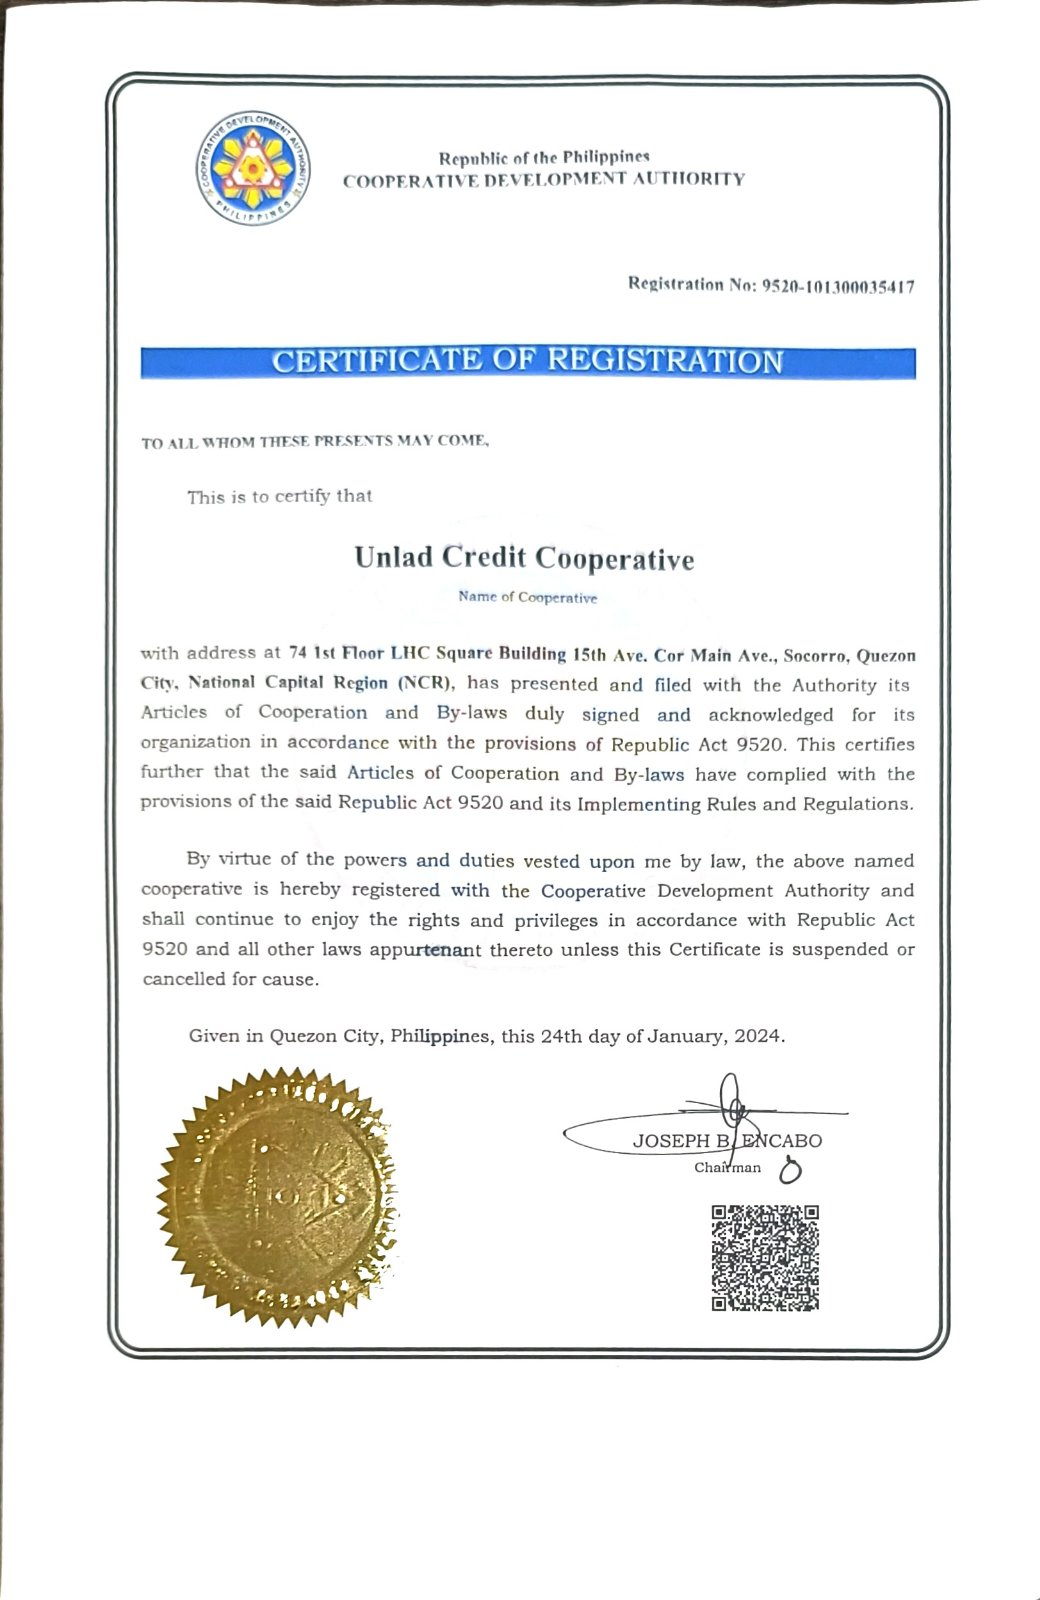
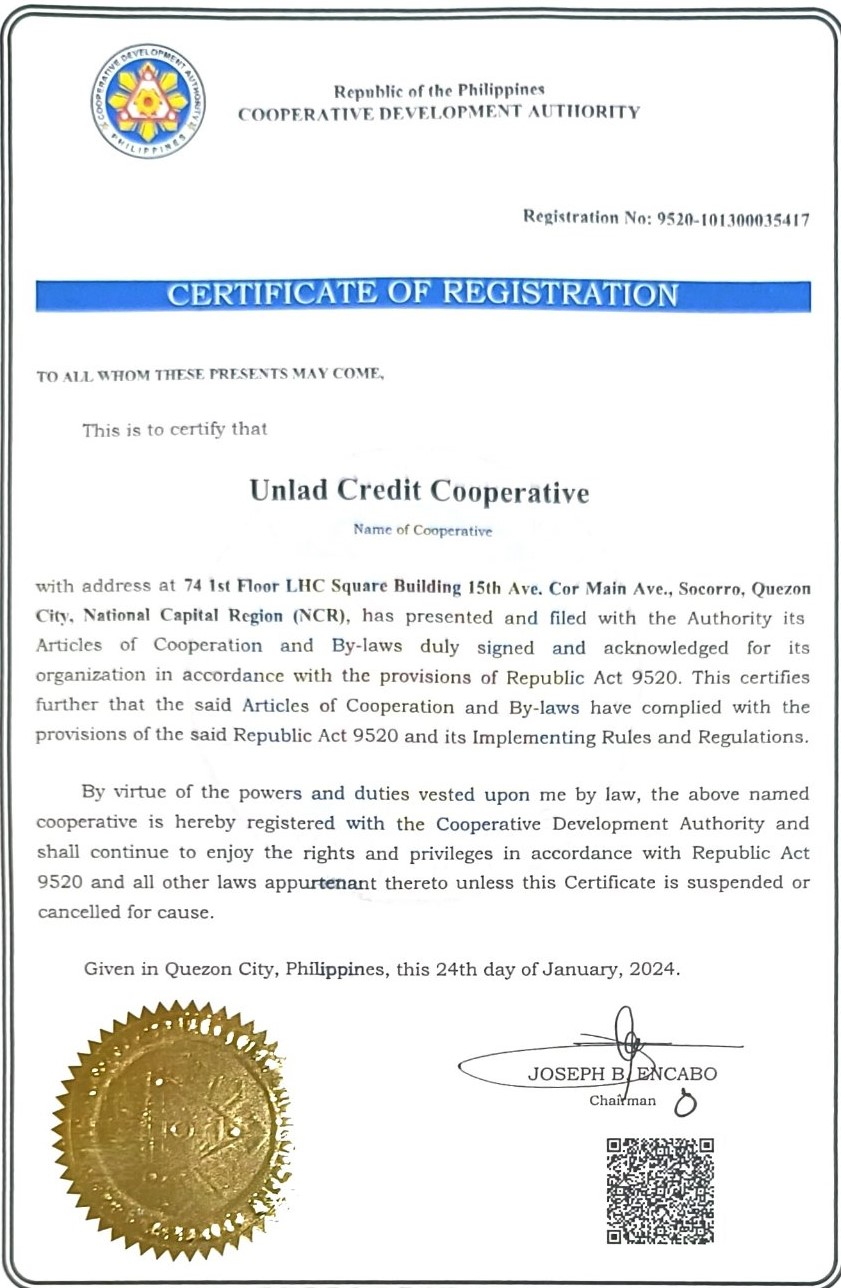
Add files via upload

Changed region(s): [[0.0, 0.0, 1.0, 1.0]]

diff --git a/about-us.html b/about-us.html
@@ -79,19 +79,12 @@
     <hr>
 
     <section>
-        <div class="container mb-5">
-            <h3>Our Accreditations / Certifications</h3>
+        <div class="container mb-5 ">
+            <h3 class="cert-title">Our Accreditations / Certifications</h3>
 
-            <div class="row mx-auto my-5">
-            <div class="col-lg-3 col-md-5 col-xl-5 p-3 mx-auto">
+                <img src="images/SEC CERT.jpg" alt="SEC Certifications" class="certificate">
+                <img src="images/CDA COR.jpg" alt="CDA Certifications" class="certificate">
 
-                <img src="images/SEC CERT.jpg" alt="SEC Certifications" height="720px" class="mt-4">
-            </div>
-            <div class="col-lg-3 col-md-5 col-xl-5 p-3 mx-auto">
-                <img src="images/CDA COR.jpg" alt="CDA Certifications" height="720px" class="mt-4">
-
-            </div>
-            </div>
         </div>
     </section>
 
@@ -147,7 +140,7 @@
             <div class="row text-md-left">
 
                 <div class="col-md-3 col-lg-3 col-xl-3 mx-auto mt-3">
-                    <h5 class="mb-4 font-weight-bold text-warning"><img src="images/UCC-Logo w Label.png" style="height: 100px;"></h5>
+                    <h5 class="mb-4 font-weight-bold text-warning"><img src="images/UCC-Logo w Label.png" class="footer-logo"></h5>
                     <p>A Credit Cooperative created to assist and empower uniformed personnel of various institutions in the Philippines to strengthen access to credit and financial needs of the sector. UNLAD Credit Cooperative is formed by various active and non-active uniformed personnel in the country.</p>
                 </div>
 

diff --git a/css files/style.css b/css files/style.css
@@ -291,8 +291,15 @@ footer {
     width: 80%;
 }
 
-
-
+.certificate {
+    height: 720px;
+    width: auto;
+    margin: 0 15px 0;
+    padding: 15px;
+}
+.footer-logo {
+    height: 100px;
+}
 
 
 @media only screen and (max-width: 1280px) {
@@ -340,7 +347,19 @@ footer {
     .custom-list {
         padding: 20%;
     }
+    .certificate {
+        height: 620px;
+    }
+    .footer-logo {
+        height: 75px;
+    }
+    
 }
+@media only screen and (max-width: 990px) {
+    
+
+}
+
 
 @media only screen and (max-width: 800px) {
     .menu-bar {
@@ -375,6 +394,17 @@ footer {
     }
     .custom-list {
         padding: 30%;
+    }
+    .certificate {
+        height: 460px
+    }
+    .cert-title {
+        font-size: 20px;
+        display: block;
+        justify-content: center;
+    }
+    .footer-logo {
+        height: 100px;
     }
 }
 

diff --git a/contact.html b/contact.html
@@ -139,7 +139,7 @@
             <div class="row text-md-left">
 
                 <div class="col-md-3 col-lg-3 col-xl-3 mx-auto mt-3">
-                    <h5 class="mb-4 font-weight-bold text-warning"><img src="images/UCC-Logo w Label.png" style="height: 100px;"></h5>
+                    <h5 class="mb-4 font-weight-bold text-warning"><img src="images/UCC-Logo w Label.png" class="footer-logo"></h5>
                     <p>A Credit Cooperative created to assist and empower uniformed personnel of various institutions in the Philippines to strengthen access to credit and financial needs of the sector. UNLAD Credit Cooperative is formed by various active and non-active uniformed personnel in the country.</p>
                 </div>
 

diff --git a/member.html b/member.html
@@ -102,7 +102,7 @@
             <div class="row text-md-left">
 
                 <div class="col-md-3 col-lg-3 col-xl-3 mx-auto mt-3">
-                    <h5 class="mb-4 font-weight-bold text-warning"><img src="images/UCC-Logo w Label.png" style="height: 100px;"></h5>
+                    <h5 class="mb-4 font-weight-bold text-warning"><img src="images/UCC-Logo w Label.png" class="footer-logo"></h5>
                     <p>A Credit Cooperative created to assist and empower uniformed personnel of various institutions in the Philippines to strengthen access to credit and financial needs of the sector. UNLAD Credit Cooperative is formed by various active and non-active uniformed personnel in the country.</p>
                 </div>
 

diff --git a/index.html b/index.html
@@ -85,7 +85,7 @@
             <div class="row text-md-left">
 
                 <div class="col-md-3 col-lg-3 col-xl-3 mx-auto mt-3">
-                    <h5 class="mb-4 font-weight-bold text-warning"><img src="images/UCC-Logo w Label.png" style="height: 100px;"></h5>
+                    <h5 class="mb-4 font-weight-bold text-warning"><img src="images/UCC-Logo w Label.png" class="footer-logo"></h5>
                     <p>A Credit Cooperative created to assist and empower uniformed personnel of various institutions in the Philippines to strengthen access to credit and financial needs of the sector. UNLAD Credit Cooperative is formed by various active and non-active uniformed personnel in the country.</p>
                 </div>
 
